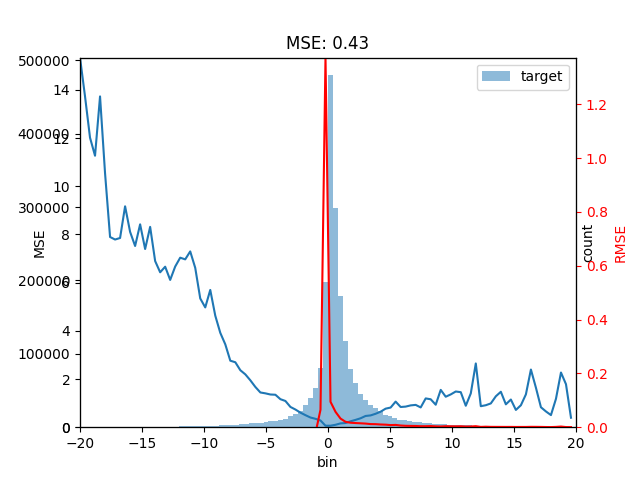
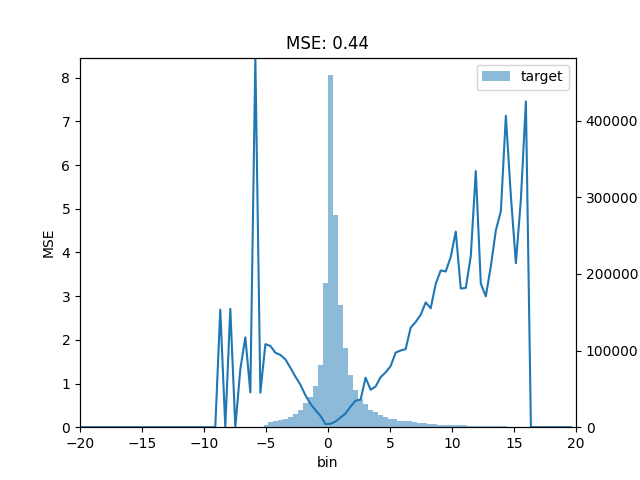
added the XP run name to the wandb and set as save name

diff --git a/load_model.py b/load_model.py
@@ -43,14 +43,15 @@ def convert_config(config):
 
 if __name__ == '__main__':
     path = '/home/bene/NNGamma/Models/'
-    name = '2021082803_minGPT'
+    name = '2021090123_minGPT'
     save_path = '/home/bene/NNGamma/temp/'
     model, config = load_model(path,name)
 
-    calc = False
+    calc = True
 
     if calc:
         #model to devide
+        print(config.data_path)
         model = model.to('cuda')
 
         if config.criterion == 'MSELoss()':
@@ -63,12 +64,13 @@ if __name__ == '__main__':
         print('-' * 89)
 
         train_dataset = gamma_dataset(data_path, 'train', config)
-        val_dataset = gamma_dataset(data_path, 'val', config)
+        val_0_dataset = gamma_dataset(data_path, 'val_0', config)
+        val_1_dataset = gamma_dataset(data_path, 'val_1', config)
 
 
         x = 100
 
-        if True:
+        if False:
             train_dataset.train_data = train_dataset.train_data[:]
             train_dataset.train_target = train_dataset.train_target[:]
 
@@ -76,13 +78,10 @@ if __name__ == '__main__':
             val_dataset.train_target = val_dataset.train_target[:]
 
         training_data = DataLoader(train_dataset, batch_size=config.batch_size, shuffle=False, num_workers=0)
-        val_data = DataLoader(val_dataset, batch_size=config.batch_size, shuffle=False, num_workers=0)
+        val_0_data = DataLoader(val_0_dataset, batch_size=config.batch_size, shuffle=False, num_workers=0)
+        val_1_data = DataLoader(val_1_dataset, batch_size=config.batch_size, shuffle=False, num_workers=0)
 
-        print('-' * 89)
-        print('Calculating Validation...')
-        print('-' * 89)
 
-        val_loss, val_out, val_target = evaluate(model, val_data, criterion, config)
 
         print('-' * 89)
         print('Calculating Traning...')
@@ -90,39 +89,49 @@ if __name__ == '__main__':
 
         train_loss, train_out, train_target = evaluate(model, training_data, criterion, config)
 
-        val_target = val_target.squeeze()
-        val_out = val_out.squeeze()
+        print('-' * 89)
+        print('Calculating Validation...')
+        print('-' * 89)
+
+        val_0_loss, val_0_out, val_0_target = evaluate(model, val_0_data, criterion, config)
+        val_1_loss, val_1_out, val_1_target = evaluate(model, val_1_data, criterion, config)
 
         train_target = train_target.squeeze()
         train_out = train_out.squeeze()
 
-        print("Validation loss: ", val_loss)
+        val_0_target = val_0_target.squeeze()
+        val_0_out = val_0_out.squeeze()
+        val_1_target = val_1_target.squeeze()
+        val_1_out = val_1_out.squeeze()
+
         print("Training loss: ", train_loss)
+        print("Validation loss: ", val_0_loss)
+        print("Validation loss: ", val_1_loss)
 
         # save the results to a file
-        np.save(save_path + 'val_out.npy', val_out)
-        np.save(save_path + 'val_target.npy', val_target)
         np.save(save_path + 'train_out.npy', train_out)
         np.save(save_path + 'train_target.npy', train_target)
+
+        np.save(save_path + 'val_0_out.npy', val_0_out)
+        np.save(save_path + 'val_0_target.npy', val_0_target)
+
     else:
-        val_out = np.load(save_path + 'val_out.npy')
-        val_target = np.load(save_path + 'val_target.npy')
+
         train_out = np.load(save_path + 'train_out.npy')
         train_target = np.load(save_path + 'train_target.npy')
+        val_0_out = np.load(save_path + 'val_0_out.npy')
+        val_0_target = np.load(save_path + 'val_0_target.npy')
+        val_1_out = np.load(save_path + 'val_1_out.npy')
+        val_1_target = np.load(save_path + 'val_1_target.npy')
 
-
-
-    # %% 
-
-
-    make_MSE_x(val_out, val_target, name = "val", save = True)
     make_MSE_x(train_out, train_target, name = "train", save = True)
-
-
+    make_MSE_x(val_0_out, val_0_target, name = "val_0", save = True)
+    make_MSE_x(val_1_out, val_1_target, name = "val_1", save = True)
 
     print('-' * 89)
     print('Make Scatter...')
     print('-' * 89)
 
-    make_heatmap(val_out, val_target, name = "val", save = True)
     make_heatmap(train_out, train_target, name = "train", save = True)
+    make_heatmap(val_0_out, val_0_target, name = "val_0", save = True)
+    make_heatmap(val_1_out, val_1_target, name = "val_1", save = True)

diff --git a/plot_results.py b/plot_results.py
@@ -67,6 +67,9 @@ def make_MSE_x(prediciton, target, name = '', path = '', save=False):
     for i in range(len(bins)-1):
         MSE[i] = np.mean( (target[(target>bins[i]) & (target<bins[i+1])] - prediciton[(target>bins[i]) & (target<bins[i+1])])**2 )
         RMSE[i] = np.mean( ((target[(target>bins[i]) & (target<bins[i+1])] - prediciton[(target>bins[i]) & (target<bins[i+1])]) / (np.mean((target[(target>bins[i]) & (target<bins[i+1])]))) **2))
+    # set nan to 0
+    MSE[np.isnan(MSE)] = 0
+    RMSE[np.isnan(RMSE)] = 0
     # plot the mean squared error
     plt.clf()
 
@@ -85,12 +88,6 @@ def make_MSE_x(prediciton, target, name = '', path = '', save=False):
     # set title to MSE of the prediction scientific notation two decimal places
     MSE = np.around(np.mean( (target - prediciton)**2 ),2)
     plt.title('MSE: ' + str(MSE))
-    # add a third axis with the relative mean squared error per bin
-    ax2 = plt.twinx()
-    ax2.plot(bins[:-1], RMSE, color='r')
-    ax2.set_ylabel('RMSE', color='r')
-    ax2.tick_params('y', colors='r')
-    ax2.set_ylim(0,max(RMSE))
     
 
     if save:

diff --git a/main_script.py b/main_script.py
@@ -1,5 +1,6 @@
 import datetime
 import pickle
+import os
 
 import torch
 import torch.nn as nn
@@ -56,13 +57,15 @@ def main(emb, hid, nlay, nhead, drp, lr, epo, btch, set, wdecay, local, max_btch
 
     config = wandb.config
 
+    if not local:
+        config.name = os.environ['XPRUN_NAME']
+
     if cuda:
         config.device = torch.device('cuda')
     else:
         config.device = torch.device('cpu')
 
     config.criterion = nn.MSELoss()
-    
     config.padding_idx = 0
 
    # check if set containts red
@@ -185,7 +188,7 @@ def main(emb, hid, nlay, nhead, drp, lr, epo, btch, set, wdecay, local, max_btch
     config_dict['name'] = name
     config_dict['date'] = date
     # save config dict with pickle
-    with open(path + date + '_' + name + '.pkl', 'wb') as f:
+    with open(path + config.name + '.pkl', 'wb') as f:
         pickle.dump(config_dict, f)
     
 
